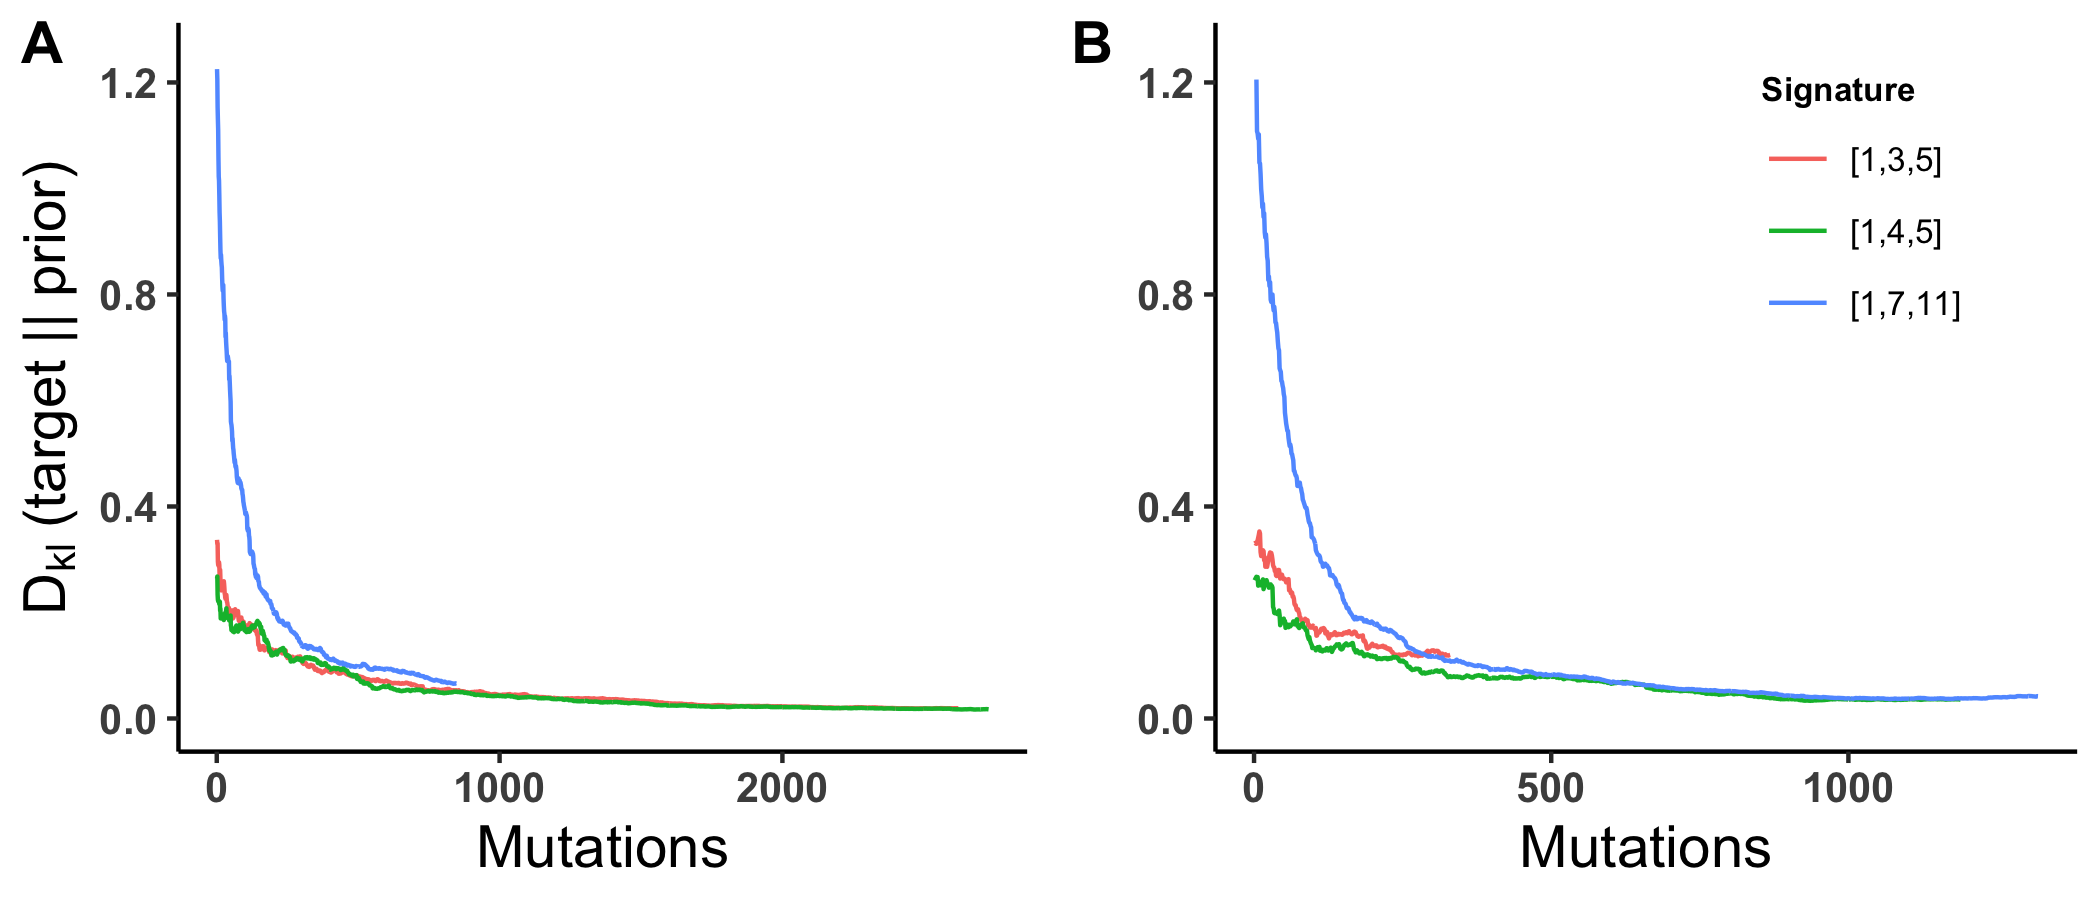
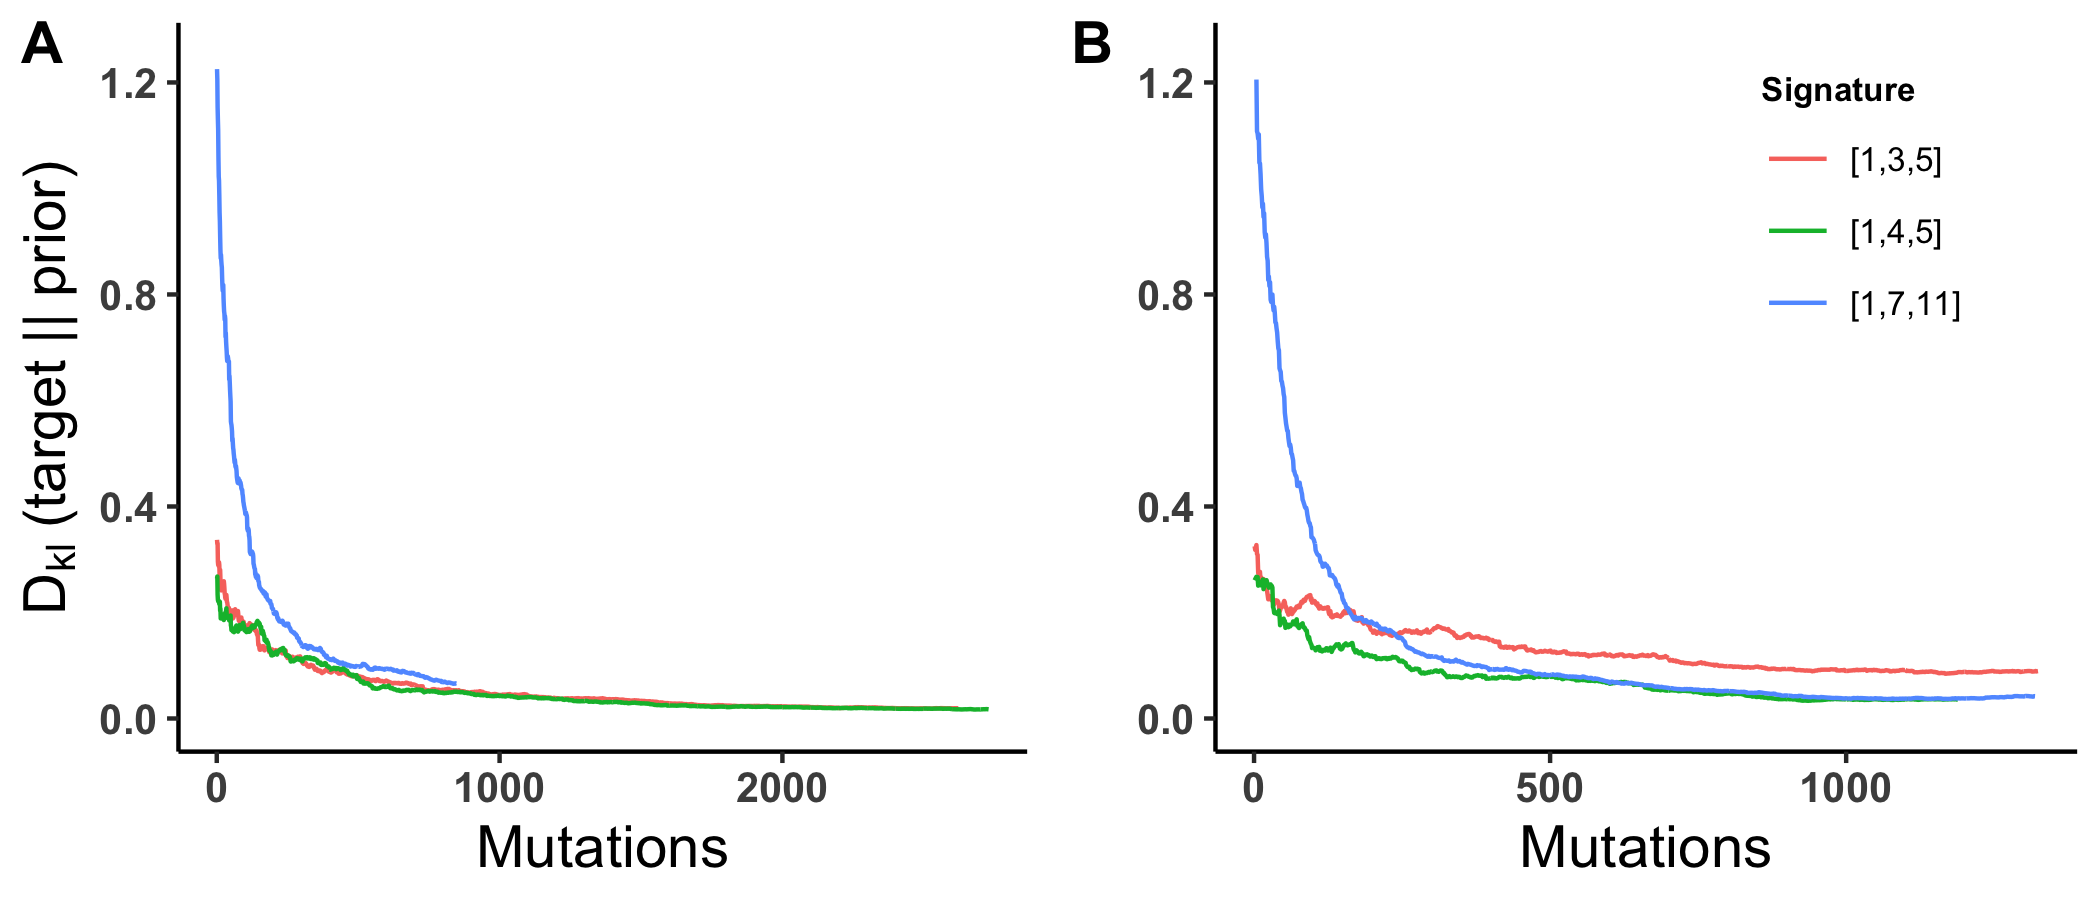
add new kl figure. sixteen now goes all the way

Changed region(s): [[0.5881, 0.5911, 0.9595, 0.7778], [0.8667, 0.84, 0.8976, 0.9022], [0.7119, 0.8711, 0.7429, 0.9022]]

diff --git a/paper.md b/paper.md
@@ -130,6 +130,8 @@ In both whole genome whole exome simulations, the estimated mutation spectrum is
 We ranked all mutations called by MuTect by their TLOD score from highest to lowest, and computed the Kullback-Leibler divergence between the prior and the target distribution as each new mutation was observed  (Figure 2).
 In our simulations, which have high read depth, the prior converges to the target well before all mutations passed by MuTect are evaluated. 
 The quality of the estimate increases with the number of mutations and will likely be suboptimal for low depth sequence with a small number of high confidence mutations.
+Convergence is faster and the prior moves closer to the target distribution the more concentrated the simulated signature is. 
+- this is what we would expect.
 <!-- The conditional probability of mutation at a given site averaged over all sites is 3e-6 (the $P(m) = \mu$ used by MuTect; important that this is averaged over every site in the genome. The probability here includes estimates of the context content of the genome $P(m \mid C) = P(C \mid m)*P(m)/P(C)$), but our method overweights some contexts and underweights others in line with the data generating distribution.
 (I think I need an exome too. I have the B figure, but need to generate the C figure{bkm})
  Supplementary figures for other target distributions? Or a different type of figure than we have here? Or something else?
@@ -143,7 +145,7 @@ The quality of the estimate increases with the number of mutations and will like
 
 
 
-![Effect of spectrum concentration on results in WGS. A) 1,7,11 B) 1,3,5 C) 1,4,5](figures/signature_and_mutation_count_effects.png)
+
 
 ## Sensitivity in real data
 We examined two real tumor datasets in which variants had been validated by deep targeted resequencing [@Griffith2015;@Shi2018]. 
